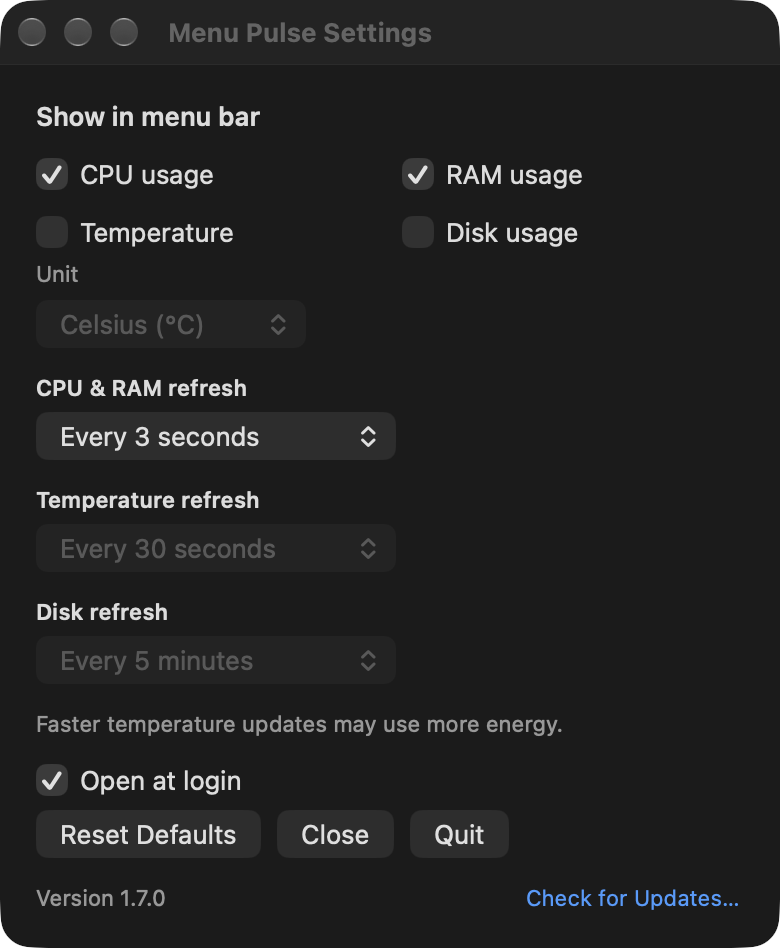
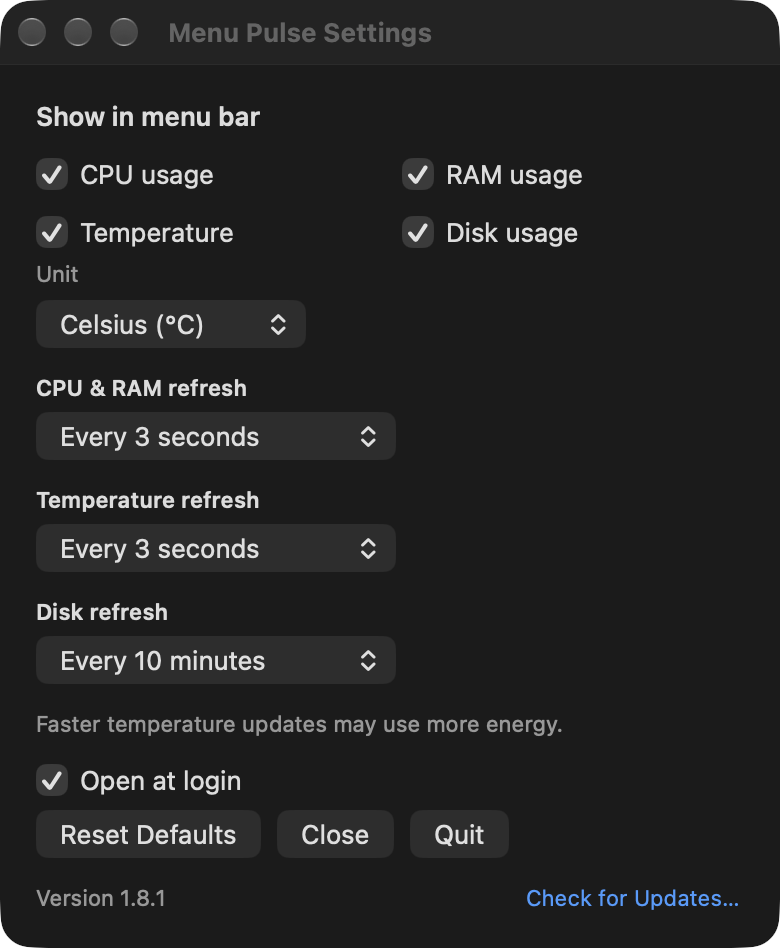
docs: retake the README screenshots and note that the app follows the system appearance (#7)
- README images captured from the current build (settings/menu bar or the main window and editor in both languages).
- One line in both READMEs: the app follows the system light and dark appearance.

diff --git a/README.md b/README.md
@@ -59,6 +59,8 @@ TEMP supports Celsius and Fahrenheit and shows the hottest component sensor the 
 
 Click the menu bar item to open Settings, which shows the installed version and **Check for Updates…**. If the item is hidden, for example behind the camera notch, open Menu Pulse again from Applications to show Settings. Close Settings with **⌘W** or **Esc**; it reopens where you left it. First launch asks about **Open at login** once; you can change it in Settings. **Reset Defaults restores the metric defaults and turns Open at login on.** Reset and Quit require confirmation; quitting preserves your login setting.
 
+The menu bar item and the Settings window follow the system appearance, light or dark.
+
 <details>
 <summary>Settings screenshot</summary>
 
